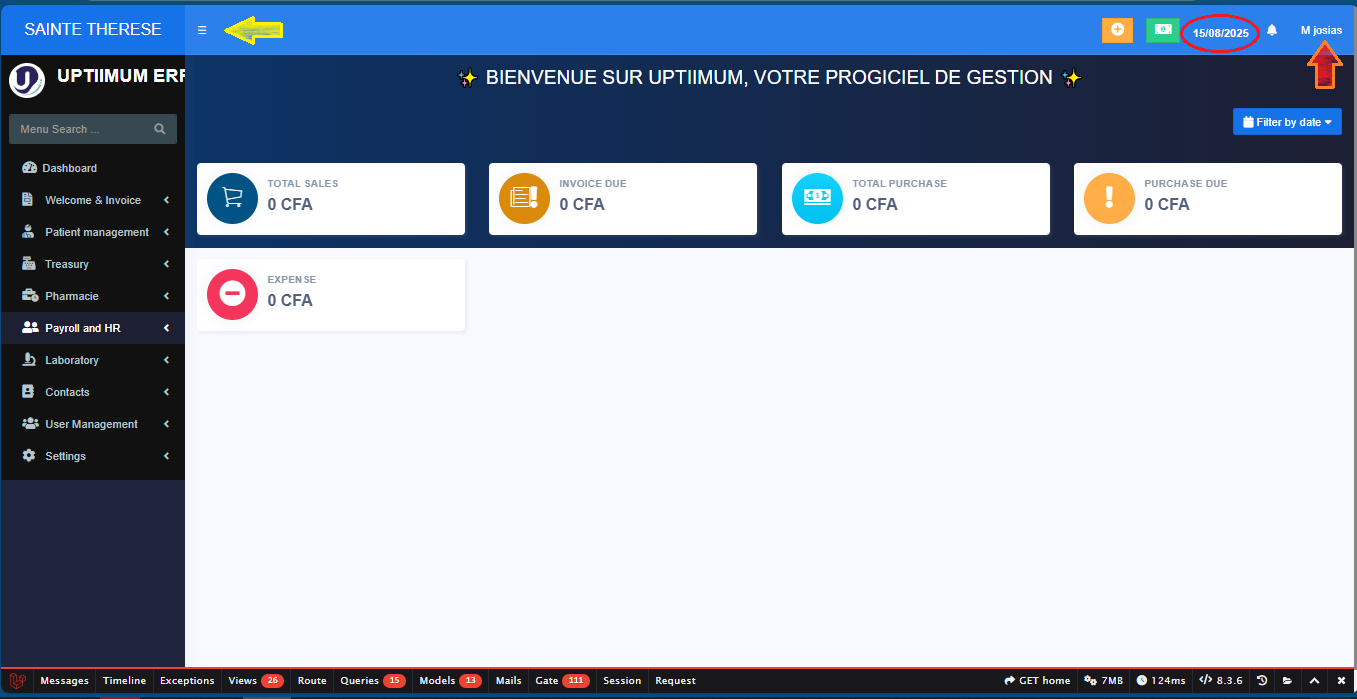
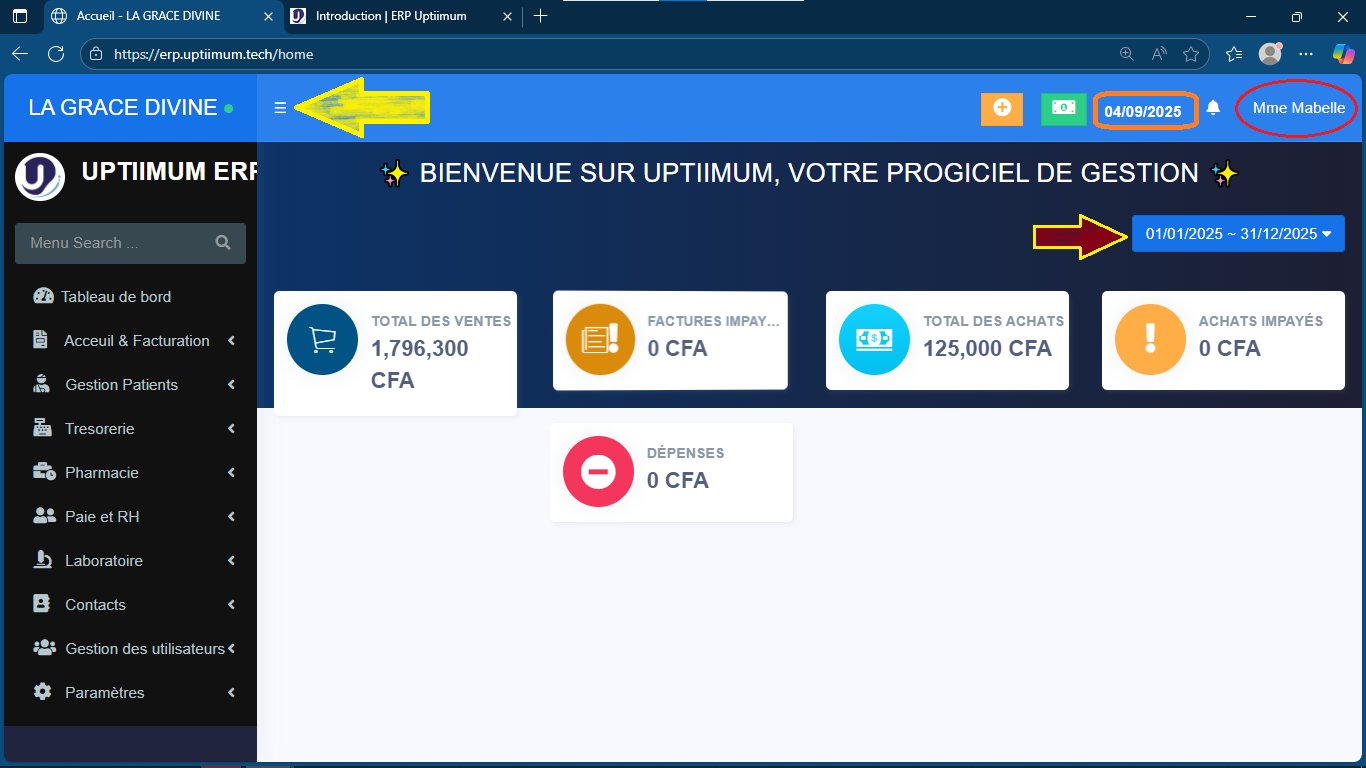
Nouvelles images présentation, gest rôles, orthographes

diff --git a/my-website/docusaurus.config.js b/my-website/docusaurus.config.js
@@ -91,7 +91,7 @@ const config = {
             type: 'docSidebar',
             sidebarId: 'tutorialSidebar',
             position: 'left',
-            label: 'Documentation',
+            label: 'Introduction',
           },
           {to: '/blog', label: 'Blog', position: 'left'},
         ],
@@ -113,7 +113,7 @@ const config = {
             ],
           },
           {
-            title: 'Web',
+            title: 'Plus d\'infos',
             items: [
               {
                 label: 'Uptiimum web',

diff --git a/my-website/docs/tutorial-basics/Gestion_Utilisateurs.md b/my-website/docs/tutorial-basics/Gestion_Utilisateurs.md
@@ -1,0 +1,22 @@
+---
+sidebar_position: 5
+---
+
+# Gestion des utilisateurs
+
+Administrez les utilisateurs et leur rôles 🧠👨🏾✈
+
+---
+
+Ici, on crée et contrôle les utilisateurs, leurs accès dans l'application et les différentes catégories de rôles pouvant exister dans l'application. Cette section n'a rien avoir avec l'attribution des postes ou l'attachement d'un personnel médical à un service quelconque ; il ne sert qu'à créer les utilisateurs dans le système et leur définir des rôles ou des autorisations dans l'application.
+
+### Ajouter un Utilisateur
+pour ajouter un nouveau Utilisateur à la liste, il faut:
+- Aller à `Gestion des utilisateurs > Utilisateur > Ajouter`
+- Remplir les formulaire des informations requises puis appuyer sur enregister
+
+### Ajouter un Rôle
+pour ajouter un nouveau Rôle à la liste, il faut:
+- Aller à `Gestion des utilisateurs > Rôle > Ajouter`
+- Remplir les formulaire des informations requises puis appuyer sur enregister
+Vous pouvez également définir un rôle pour un utilisateur en accédant directement à la liste des utilisateurs de l'onglet de dessus.

diff --git a/my-website/docs/tutorial-basics/Gestion_Paramètre.md b/my-website/docs/tutorial-basics/Gestion_Paramètre.md
@@ -1,10 +1,10 @@
 ---
-sidebar_position: 5
+sidebar_position: 8
 ---
 
 # Paramètres
 
-Optimiser les paramètres pour votre établissement 👷♂⚙
+👷♂⚙ Optimiser les paramètres pour votre établissement 
 
 ---
 

diff --git a/my-website/docs/tutorial-basics/Gestion_tresor.md b/my-website/docs/tutorial-basics/Gestion_tresor.md
@@ -4,7 +4,7 @@ sidebar_position: 8
 
 # Trésorerie
 
-Comprenez en toute quiétude les module des finances 📈💰
+📈💰 Comprenez en toute quiétude les module des finances 
 
 ---
 
